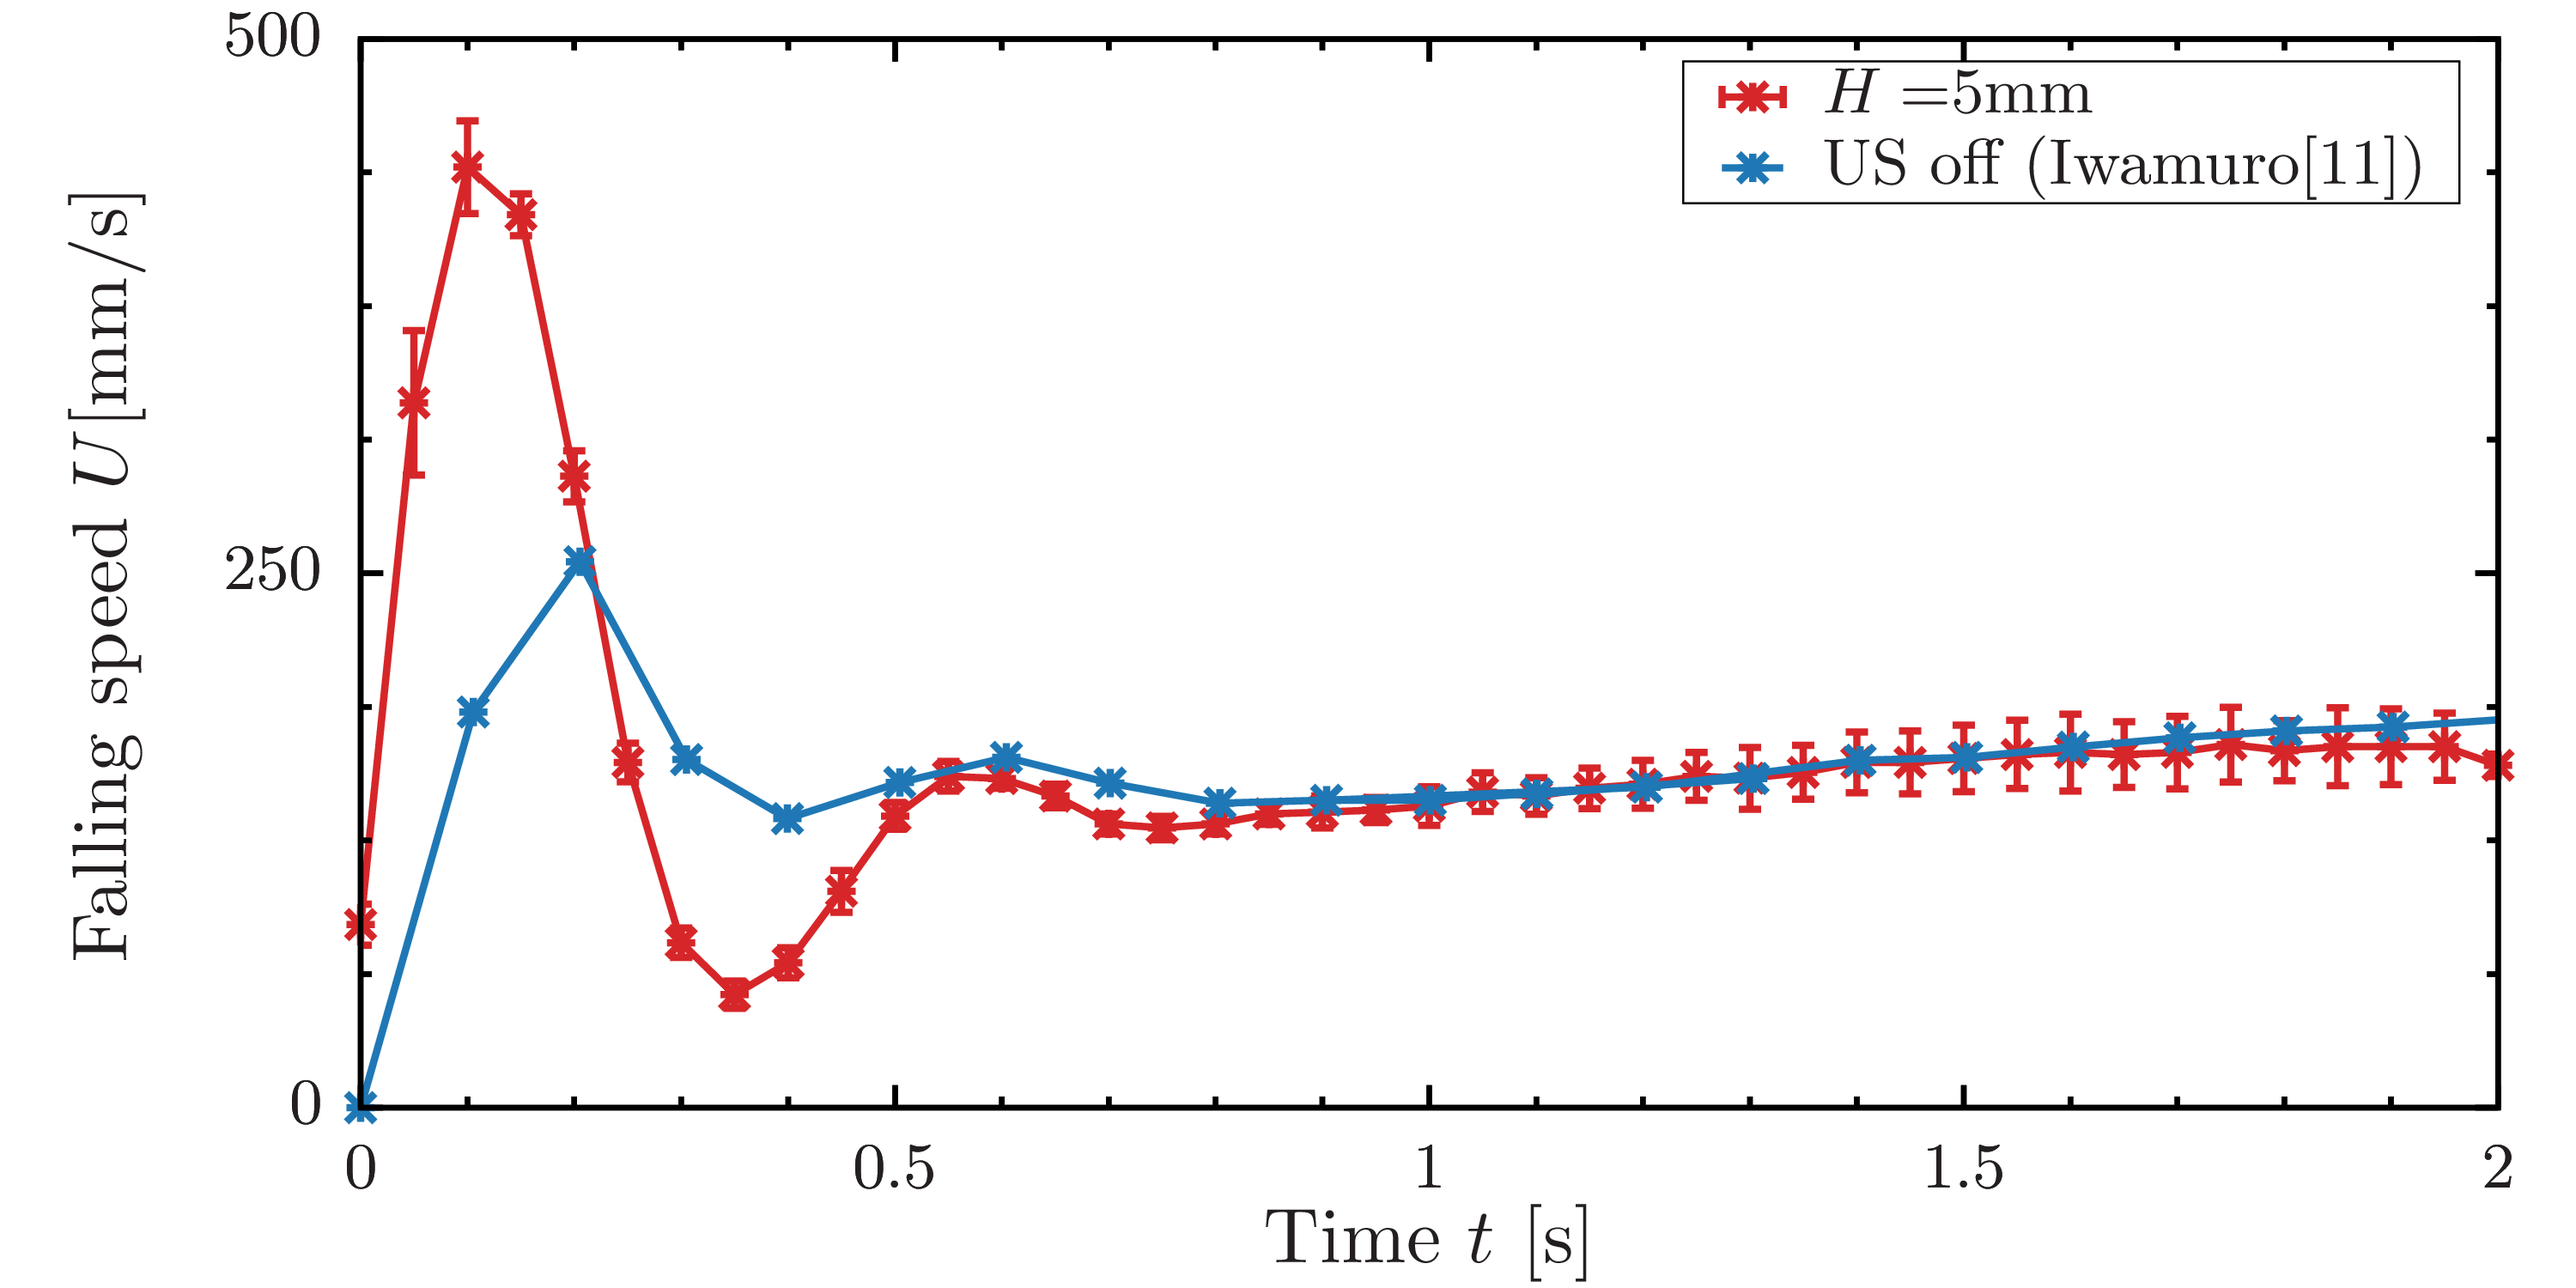
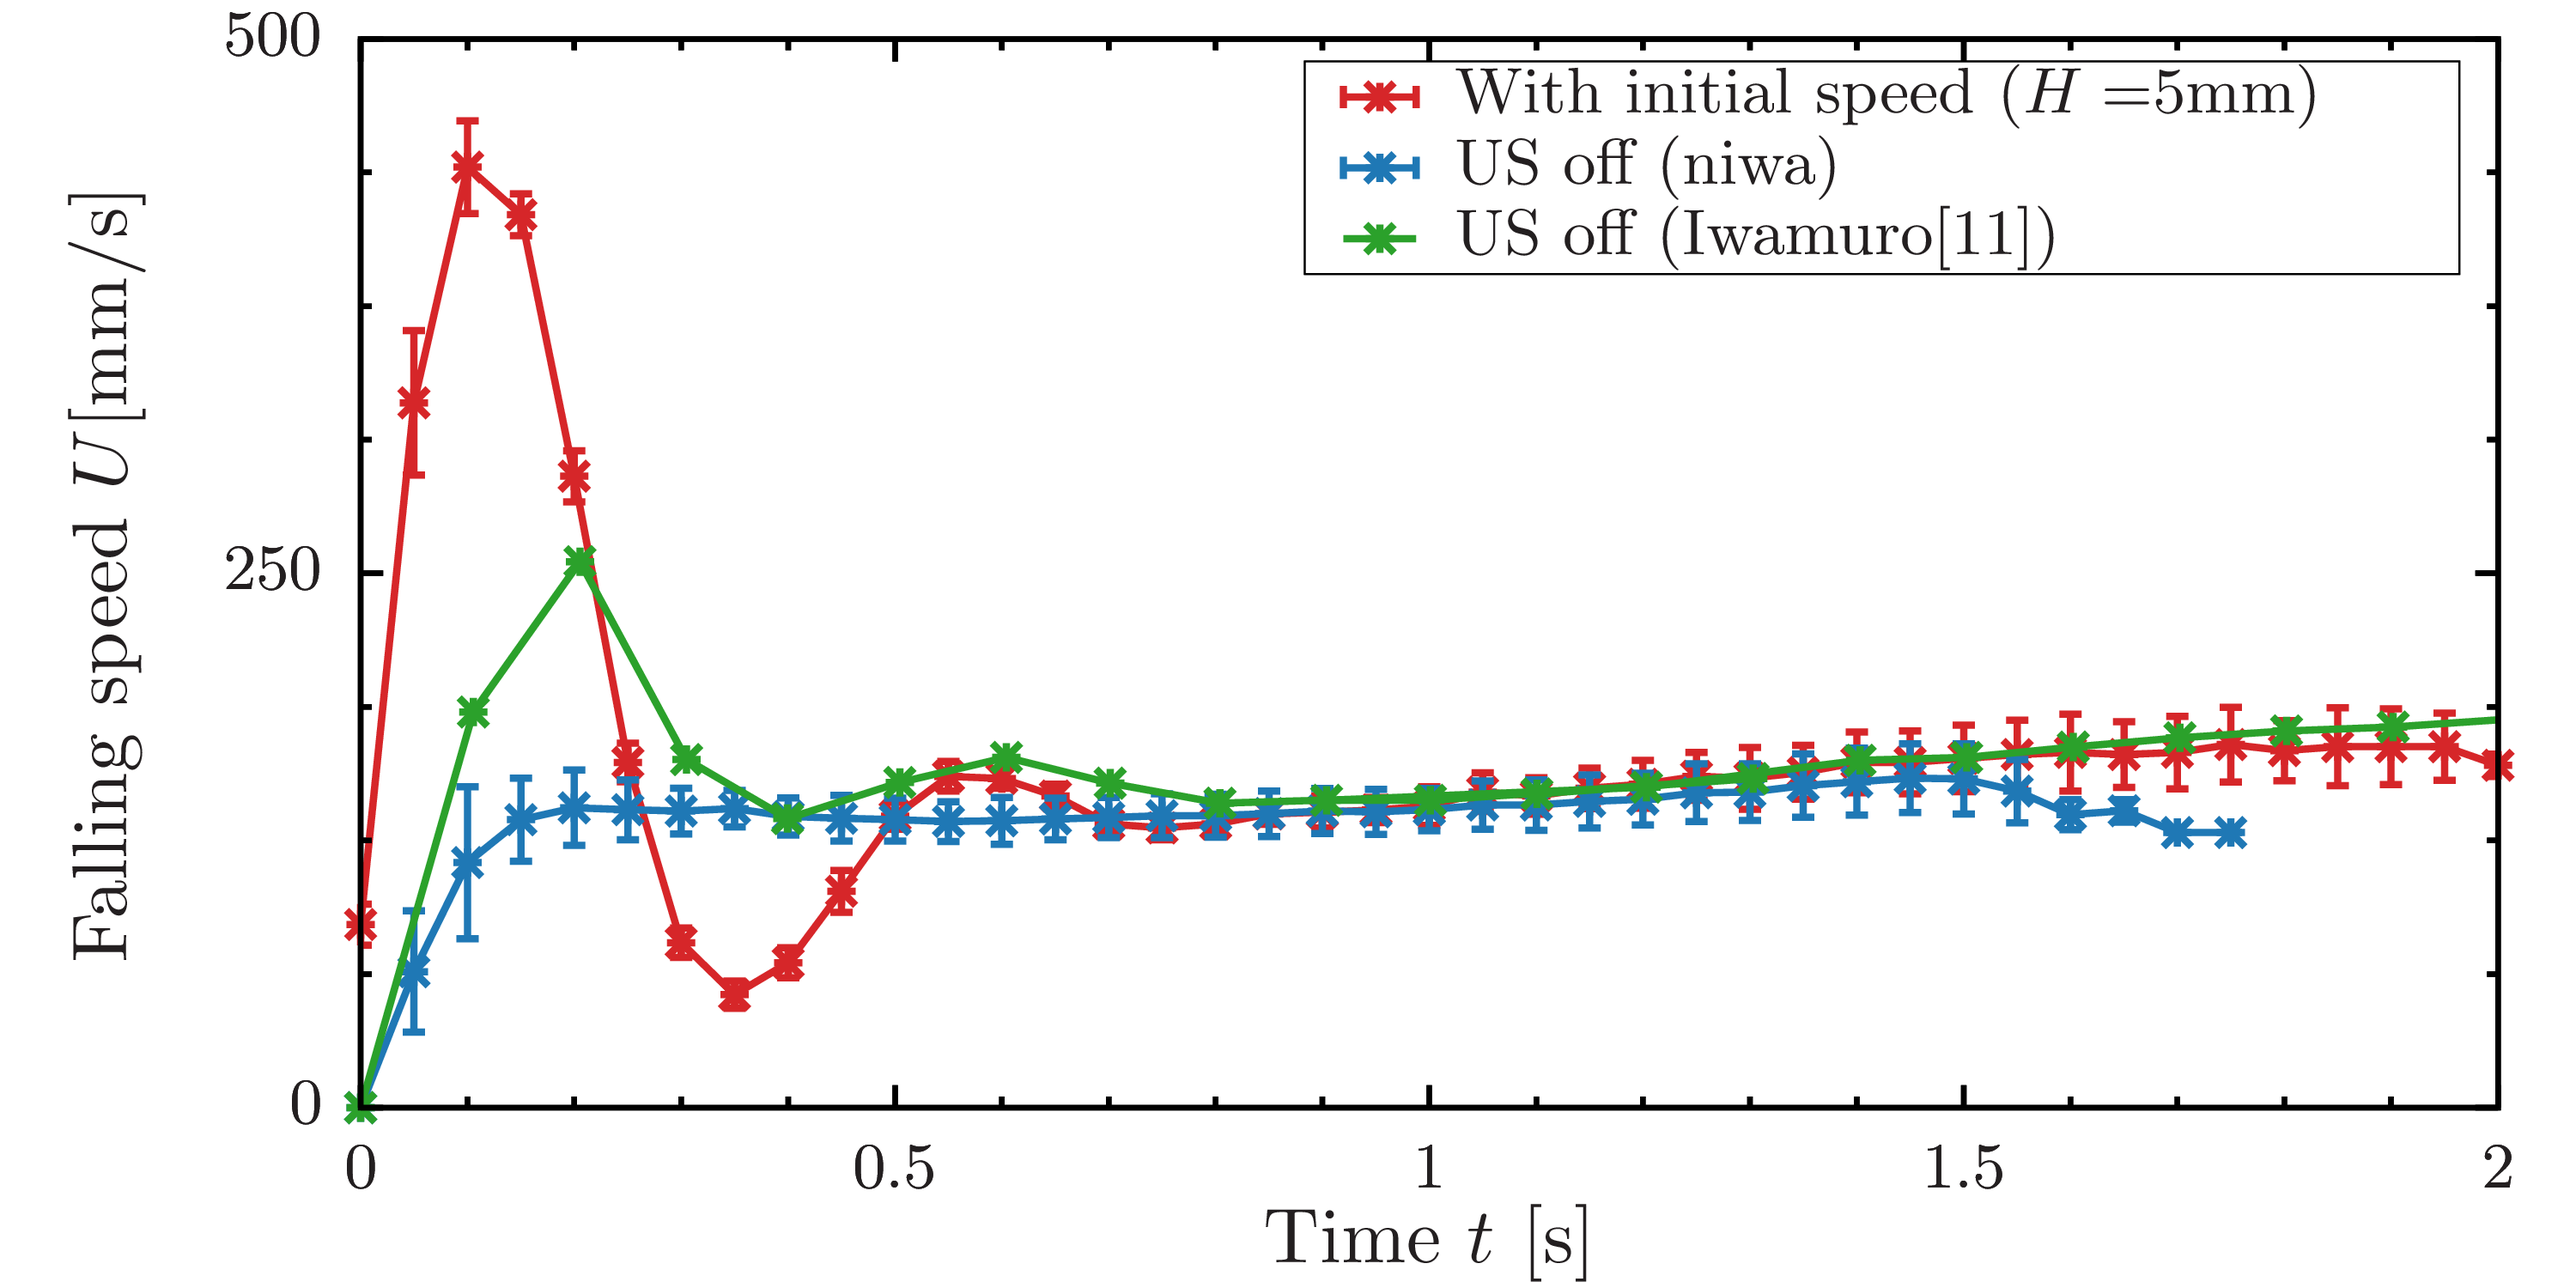
結果追記

Changed region(s): [[0.124, 0.5213, 0.961, 0.8893], [0.496, 0.0307, 0.93, 0.2147], [0.186, 0.4293, 0.248, 0.552]]

diff --git a/4-Results/results.tex b/4-Results/results.tex
@@ -62,12 +62,15 @@
 
 \subsection{装置改良における 実験結果}
 
-容器Aにおいて真空ポンプを用いて球を把持し，球を落下させ解析した結果をFig\ref{fig:falling-A}に示す．縦軸は落下速度，横軸は落下開始時からの経過時間である．先行研究であるIwamuro \textit{et al}.\cite{ref:8}や電磁石を用いて球を把持した場合と比較し，超音波照射による高速化が顕著に現れていないことが分かる．一方，今回行った真空ポンプを用いて把持した場合は，超音波照射の有無に関わらず，従来の手法における実験結果の間にあった．また，電磁石を用いた実験結果よりもよりIwamuro \textit{et al.}\cite{ref:8}の結果に近づいた．故に，実験手法として適切であることが分かった．なお，落下開始時に電磁石を用いた場合はオーバーシュートが見られるが，真空ポンプを用いた場合はオーバーシュートが見られなかった．これは実験手法の変化により弾性による影響が減少したためと考えられる．
+容器Aにおいて真空ポンプを用いて球を把持し，球を落下させ解析した結果をFig\ref{fig:falling-A}に示す．縦軸は落下速度，横軸は落下開始時からの経過時間である．先行研究であるIwamuro \textit{et al}.\cite{ref:8}や電磁石を用いて球を把持した場合と比較し，超音波照射による高速化が顕著に現れていないことが分かる．
+
+
+一方，今回行った真空ポンプを用いて把持した場合は，超音波照射の有無に関わらず，従来の手法における実験結果の間にあった．また，電磁石を用いた実験結果よりもよりIwamuro \textit{et al.}\cite{ref:8}の結果に近づいた．故に，実験手法として適切であることが分かった．なお，落下開始時に電磁石を用いた場合はオーバーシュートが見られるが，真空ポンプを用いた場合はオーバーシュートが見られなかった．これは実験手法の変化により弾性による影響が減少したためと考えられる．
 
 \begin{figure}[ht]
     \centering
     \includegraphics[width=12cm,clip]{./4-Results/s1-A.png}
-    \caption{Falling velocity of a sphere in 1wt.\%PAA solution with and without ultrasound irradiation in tank A. (Interval 5 min.)}
+    \caption{Falling velocity of a sphere in 1wt.\%PAA solution with and without ultrasound irradiation in tank A.}
     \label{fig:falling-A}
 \end{figure}
 
